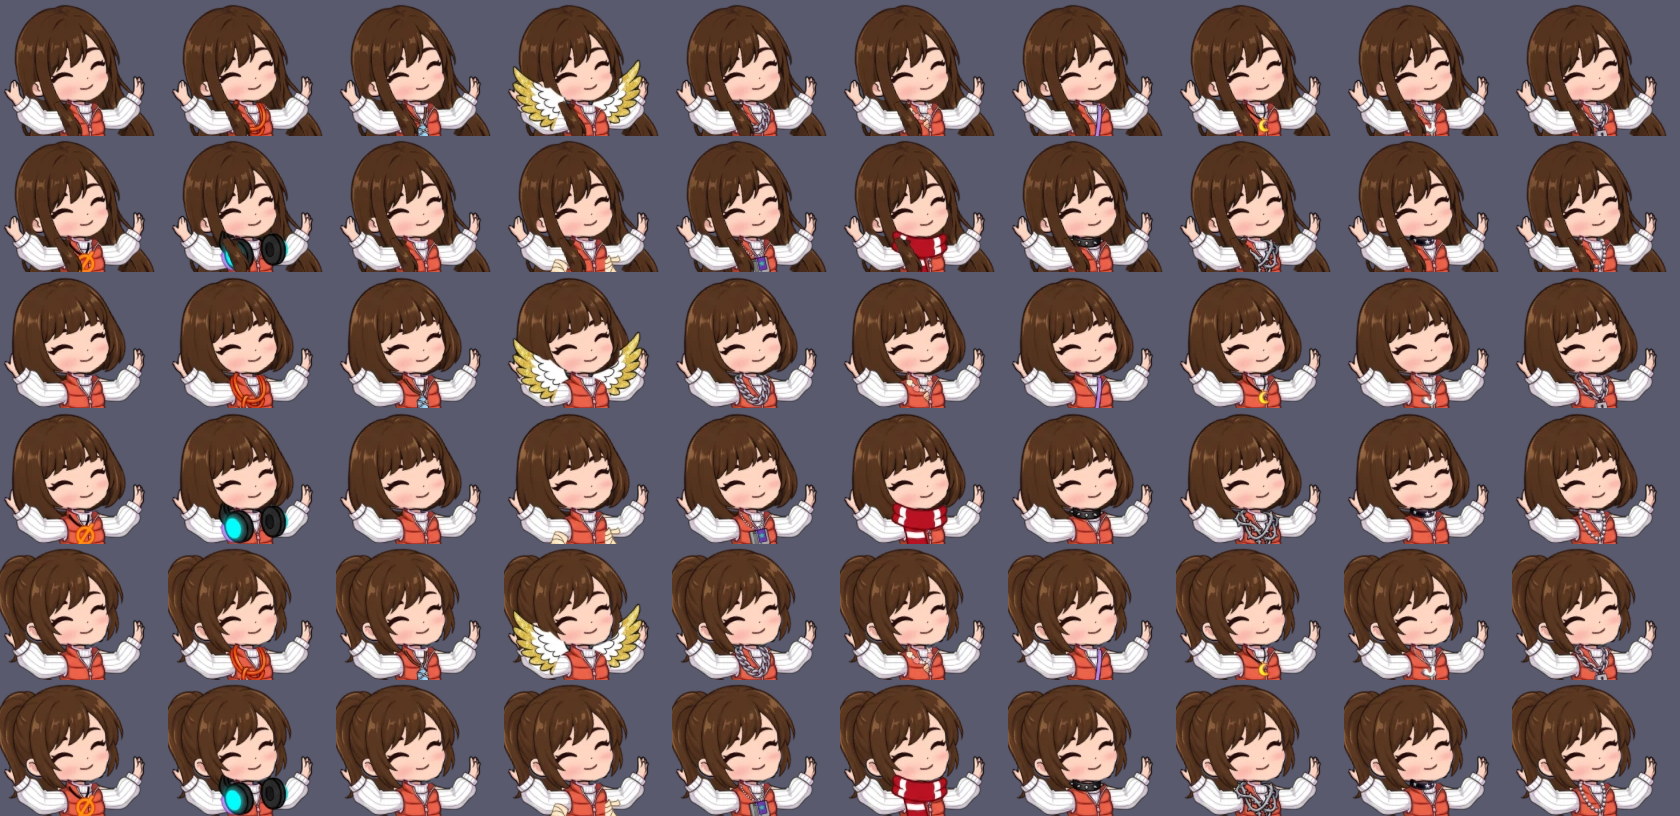
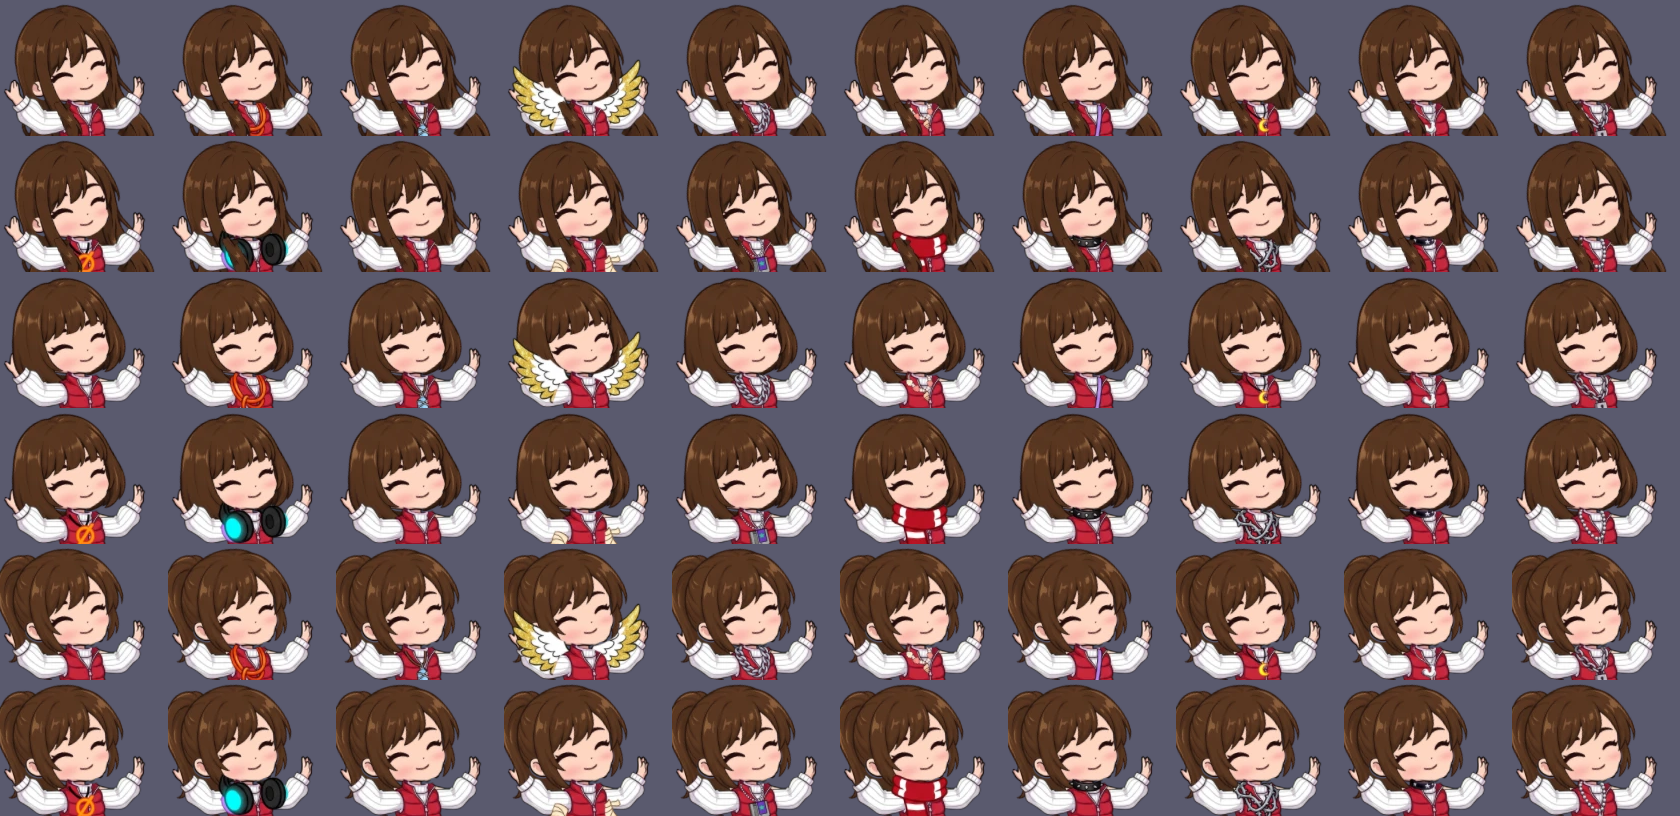
QA: yawn 44 (sv_fleece) and the sv_quilt recolour pass; all 44 done; colour check over 79 tops

diff --git a/quest-board/docs/TASKS.md b/quest-board/docs/TASKS.md
@@ -504,6 +504,16 @@ Art and room code requests (LEAD asks, ROOMS does):
   most once per frame (requestAnimationFrame). Measured by ROOMS headless; real phone numbers come with the next publish.
 
 QA findings (QA adds one line each: what, where, how to see it, screenshot, owner; LEAD moves them into the right list):
+- QA, ROOMS's yawn picture 44 (4dbd2e2: sv_fleece) and the sv_quilt recolour (f6ba9a6), on clean builds, 0 page errors: PASS, all
+  44 yawn pictures now pass. sv_fleece: arms-up, both hands out, no strip, navy matches idle, frames 6, 12 and 18 on hot pink
+  (shots/qa/yawn/sv_fleece_arms.png); sweep 120 clean. sv_quilt: the stretch red is now hue 351 like idle, (184,39,60) boy and
+  (176,39,60) girl against (187,39,62) and (187,40,60) idle; only stretch frames changed (sv_quilt_fixed.png: idle, walk,
+  stretch); the shoulder tick is a 1 px tan line along the sleeve top, the body's shoulder outline, which reads as a seam on
+  all three backgrounds: pass (sv_quilt_tick.png); sweep 120 clean (sheet_sv_quilt_<body>.png, replacing the tomato ones).
+  Colour check, idle (front) art against stretch art for all 79 tops with yawn art, both bodies: median colour difference dE
+  2.9 (not visible); by eye on the 16 lowest histogram matches and the highest dE (colour_check_low16.png, colour_check_high.png,
+  colour_check_dE.txt), only sv_quilt was a real jump. Optional, not blocking: km_camp's hibiscus (dE 13-14) and km_crochet's
+  scalloped trim are a little duller in the stretch, visible side by side, not at game size. FYI LEAD: v0.72's yawn art is ready.
 - QA, ROOMS's yawn pictures 42 and 43 (aceba29: sv_nordic, sv_quilt) on a clean build of aceba29, 0 page errors. sv_nordic: PASS.
   It stretches arms-up on both bodies, both hands out; stretch frames 3 to 21 changed, nothing else; its reds match idle (median
   (155,75,74) stretch against (154,72,71) idle). ROOMS's question 1, the tan edge under the boy's far sleeve: pass, at 5x on hot pink
@@ -2538,8 +2548,8 @@ Doing:
   Re-checked the 'every upgrade visible' bug lists: all fixed already. Next from my list: the WEAK upgrades (need new art or a
   bigger change), worst first, starting with the Restaurant's ten.
   WAITING ON Cal: Vega's in-game tee (black Spray Paint Boxy Tee) or his portraits' white splatter tee: which one is his look?
-- TAKEN by QA. WAITING ON QA: check f6ba9a6, sv_quilt yawn recoloured to crimson (your fail on aceba29): colour idle vs stretch, and the shoulder tick.
-- TAKEN by QA. WAITING ON QA: check 4dbd2e2, yawn picture 44 (sv_fleece, the last): your yawnfall.js and yawnsweep.js. FYI LEAD: all 44 tops now have yawn art
+- DONE by QA (QA findings: pass). WAITING ON QA: check f6ba9a6, sv_quilt yawn recoloured to crimson (your fail on aceba29): colour idle vs stretch, and the shoulder tick.
+- DONE by QA (QA findings: pass). WAITING ON QA: check 4dbd2e2, yawn picture 44 (sv_fleece, the last): your yawnfall.js and yawnsweep.js. FYI LEAD: all 44 tops now have yawn art
   (m_ and f_<id>_yawn.webp for every id on your list, checked present).
 - DONE by QA (QA findings: sv_nordic pass; sv_quilt FAIL, its stretch red is tomato, idle is crimson). WAITING ON QA: check aceba29, yawn pictures 42 and 43 (sv_nordic, sv_quilt): your yawnfall.js and yawnsweep.js; two small ones for your call:
   a faint 1-2 px tan edge under the boy's far Nordic sleeve, and a small tan tick above the boy's far shoulder on the vest.
@@ -2844,9 +2854,9 @@ To do:
 ## QA: tests, pilots, quality checks
 
 Doing:
-- Now: on 0c64b6f. Done: ROOMS's yawn pictures 1-41 (pass, each with every hair and necklace; SMOKE BOMB, GACHA POP,
-  SAVE POINT, BARD & BLADE, CHROME RAIN, KAIMANA and OAKMONT complete); savecheck and screens (360, 390) on ca391d3 pass; the hair lock (pass). Next: ROOMS's next yawn batches. BLOCKED: the published-file checks (v0.64 to v0.71) until
-  Cal restarts QA (artifact tools; still down at 0c64b6f; Cal is told a new session fixes it). Next: the three SØLVBERG tops (sv_nordic, sv_quilt, sv_fleece). (on 0c64b6f)
+- Now: on 1695375. Done: all 44 of ROOMS's yawn pictures (pass, each with every hair and necklace; sv_quilt after its recolour),
+  and an idle-vs-stretch colour check over all 79 tops with yawn art; savecheck and screens (360, 390) on ca391d3 pass;
+  Cal restarts QA (artifact tools; still down at 0c64b6f; Cal is told a new session fixes it). Next: v0.72 when LEAD builds it. (on 1695375)
 - FYI LEAD and ROOMS: TEAMWORK rule 14 (Cal): every Doing line ends `(on <commit>)`; nobody starts until all three name the
   latest commit and nothing they touch is uncommitted elsewhere; LEAD checks it all before every publish and wrap-up.
 
